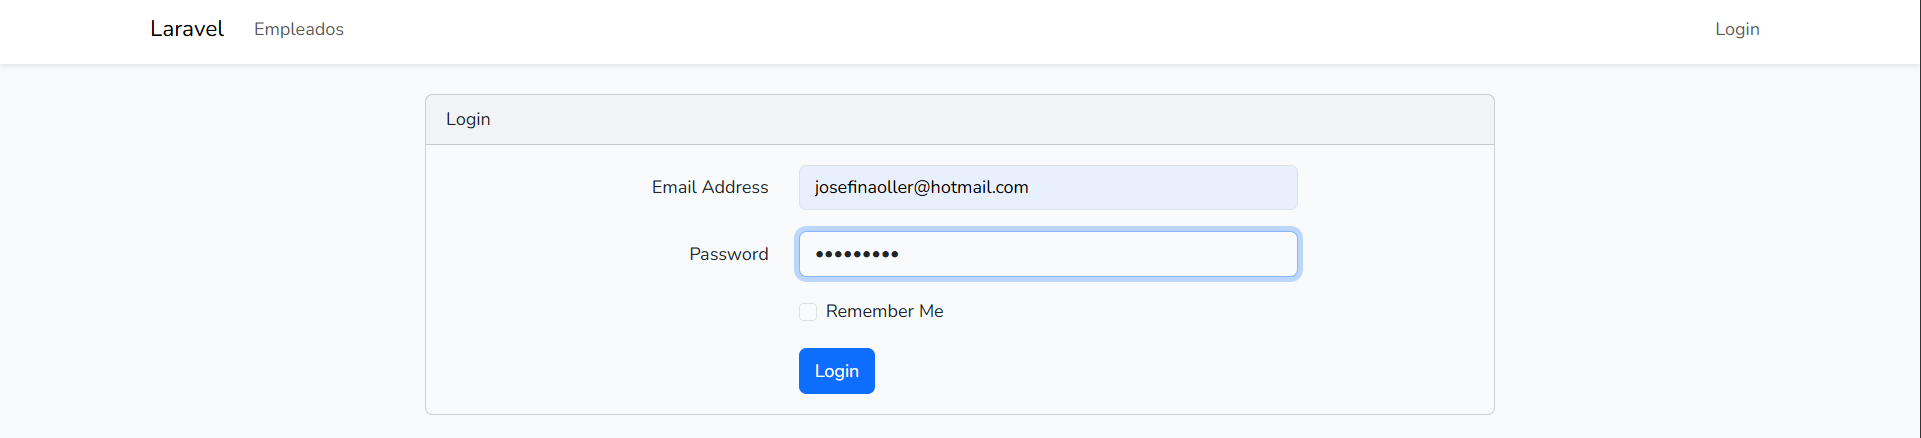
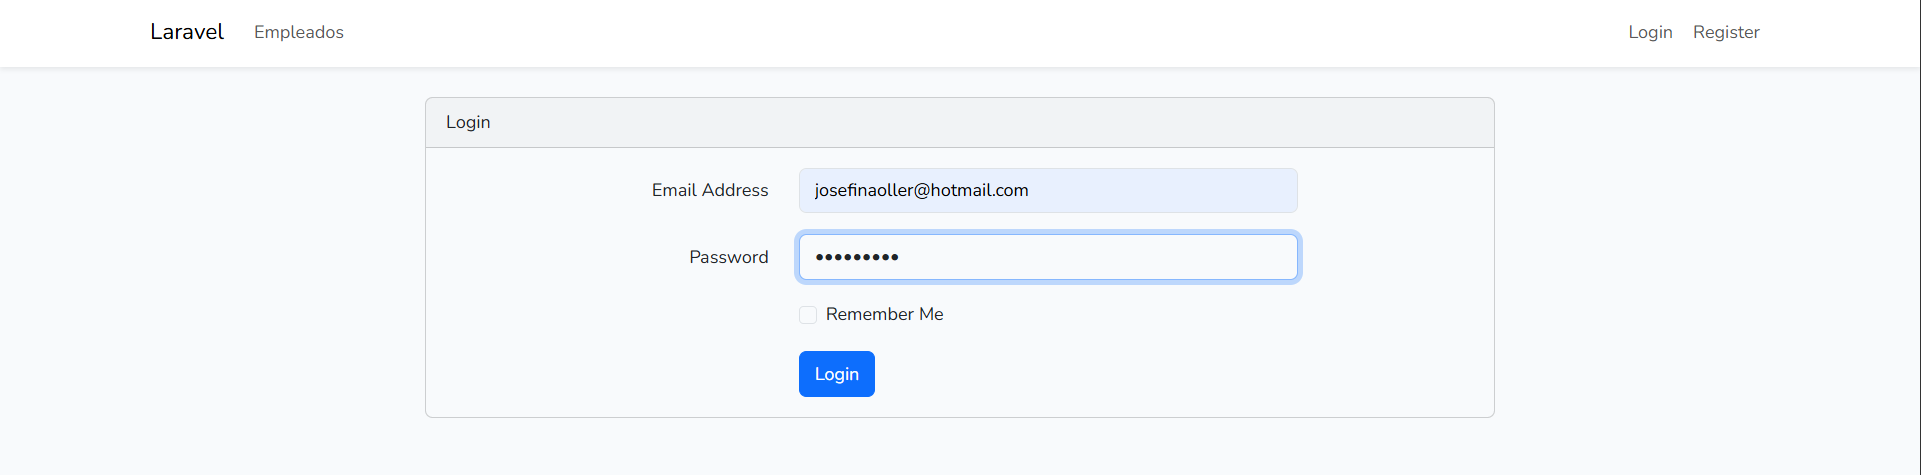
ajustes

diff --git a/routes/web.php b/routes/web.php
@@ -7,15 +7,9 @@ Route::get('/', function () {
     return view('auth.login');
 });
 
-/*Route::get('/empleado', function () {
-    return view('empleado.index');
-});
-
-Route::get('/empleado/create', [EmpleadoController::class, 'create']);
-*/
 Route::resource('empleado',EmpleadoController::class)->middleware('auth'); //controla que se cumpla la autenticacion  
 
-Auth::routes(['register'=>false,'reset'=>false]);
+Auth::routes(['reset'=>false]);
 
 Route::get('/home', [EmpleadoController::class, 'index'])->name('home');
 

diff --git a/README.md b/README.md
@@ -1,6 +1,6 @@
 # 🚀 Sistema de Empleados en Laravel
 
-¡Bienvenido al **sistema de recursos humanos más eficiente y amigable** de todos los tiempos! 👩💼👨💼 Con este proyecto podrás crear, editar y eliminar empleados como todo un **pro**. Todo eso, mientras disfrutas de una interfaz limpia y moderna que no te hará perder tiempo. 😎
+¡Bienvenido al **sistema de recursos humanos más eficiente y amigable** de todos los tiempos! 👩💼👨💼 Con este proyecto podrás crear, editar y eliminar empleados como todo un **pro**. Todo eso, mientras disfrutas de una interfaz limpia, simple y moderna que no te hará perder tiempo. 😎
 
 ## 🛠 Herramientas utilizadas
 
@@ -20,7 +20,7 @@
 ## 🗂 Estructura del proyecto
 
 - **Vistas**: Están organizadas como un equipo de trabajo bien disciplinado. ¡Todo tiene su lugar! 🗂
-- **Rutas**: Cada acción tiene su propia ruta, como un GPS para tu CRUD. 🛣
+- **Rutas**: Cada acción tiene su propia ruta. 🛣
 - **Formulario de entrada**: Los datos de los empleados entran y se validan con estilo. 🎯
 
 ## ⚡ Implementación
@@ -32,7 +32,12 @@
 
 ## 📸 Capturas de pantalla
 
-Aquí tenés una muestra visual de todo lo que este sistema puede hacer:
+Acá tenés una muestra visual de todo lo que este sistema puede hacer:
+
+- **Registro**
+
+![Captura de pantalla de register](images/register.png)  
+*Antes de gestionar empleados, tenés que demostrar que sos el/la que manda. ¡Regístrate!* 💼😎
 
 - **Login**
 
@@ -81,3 +86,62 @@ Aquí tenés una muestra visual de todo lo que este sistema puede hacer:
 
 ![Captura de pantalla de la validación de datos durante la edición de empleado](images/validacion-edicion.png)  
 *La validación nunca descansa, como un buen jefe.* 🧐
+
+## ⚙ Cómo instalar y activar el sistema  
+
+Para que todo funcione como un reloj suizo, asegúrate de tener instalado lo siguiente:  
+
+- **XAMPP** 
+- **Composer**   
+- **Node.js**   
+- **Bootstrap**  
+- **Un navegador web**  
+
+### 🔥 Pasos para activar el sistema  
+
+1⃣ **Clona el repositorio**  
+```bash
+git clone https://github.com/JosefinaOller/CRUDLaravel
+cd CRUDLaravel
+```
+
+2⃣ **Instala las dependencias**  
+```bash
+composer install
+npm install
+```
+
+3⃣ **Configura la base de datos en phpMyAdmin**  
+   - Abre XAMPP como Administrador y enciende **Apache** y **MySQL**.  
+   - Entra a **phpMyAdmin** (`http://localhost/phpmyadmin`).  
+   - Crea una nueva base de datos llamada **sistema**.  
+
+4⃣ **Configura el archivo `.env`** 
+   - Asegúrate de completar los datos de la base de datos así:  
+
+   ```env
+   DB_CONNECTION=mysql
+   DB_HOST=127.0.0.1
+   DB_PORT=3306
+   DB_DATABASE=sistema
+   DB_USERNAME=root
+   DB_PASSWORD=
+   ```
+
+5⃣ **Migra la base de datos y genera las tablas**  
+```bash
+php artisan migrate
+```
+
+6⃣ **Levanta el servidor y disfruta**  
+```bash
+php artisan serve
+```
+Luego, abre en tu navegador: [`http://localhost:8000`](http://localhost:8000)  
+
+7⃣ **Regístrate como usuario**
+
+- Ingresa al sistema y regístrate con tus datos. 
+- Una vez registrado, ya podes acceder y comenzar a gestionar empleados. 
+
+¡Listo!
